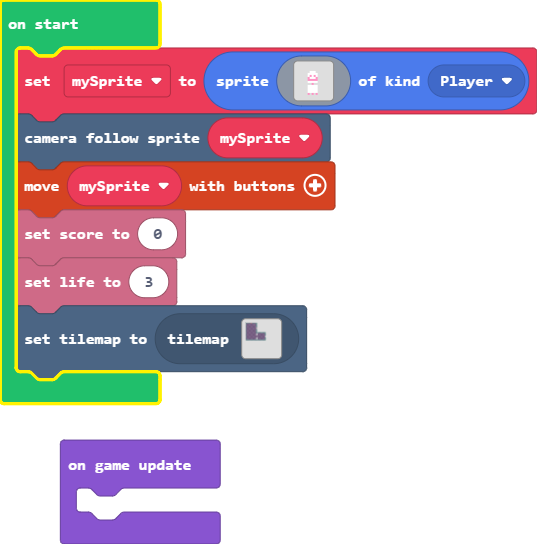
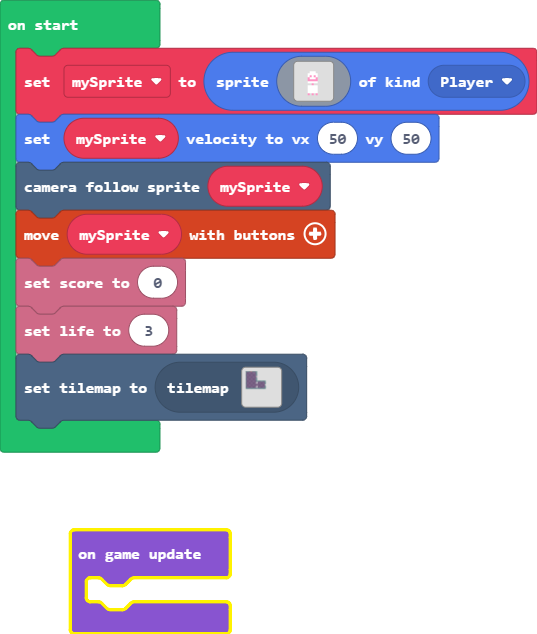
Update main.blocks, main.ts

Changed region(s): [[0.0, 0.0, 1.0, 0.75], [0.0894, 0.7812, 0.4469, 1.0]]

diff --git a/main.ts b/main.ts
@@ -16,6 +16,7 @@ let mySprite = sprites.create(img`
     . . . . . 3 . 3 . 3 . . . . . . 
     . . . . . . . . . . . . . . . . 
     `, SpriteKind.Player)
+mySprite.setVelocity(50, 50)
 scene.cameraFollowSprite(mySprite)
 controller.moveSprite(mySprite)
 info.setScore(0)
